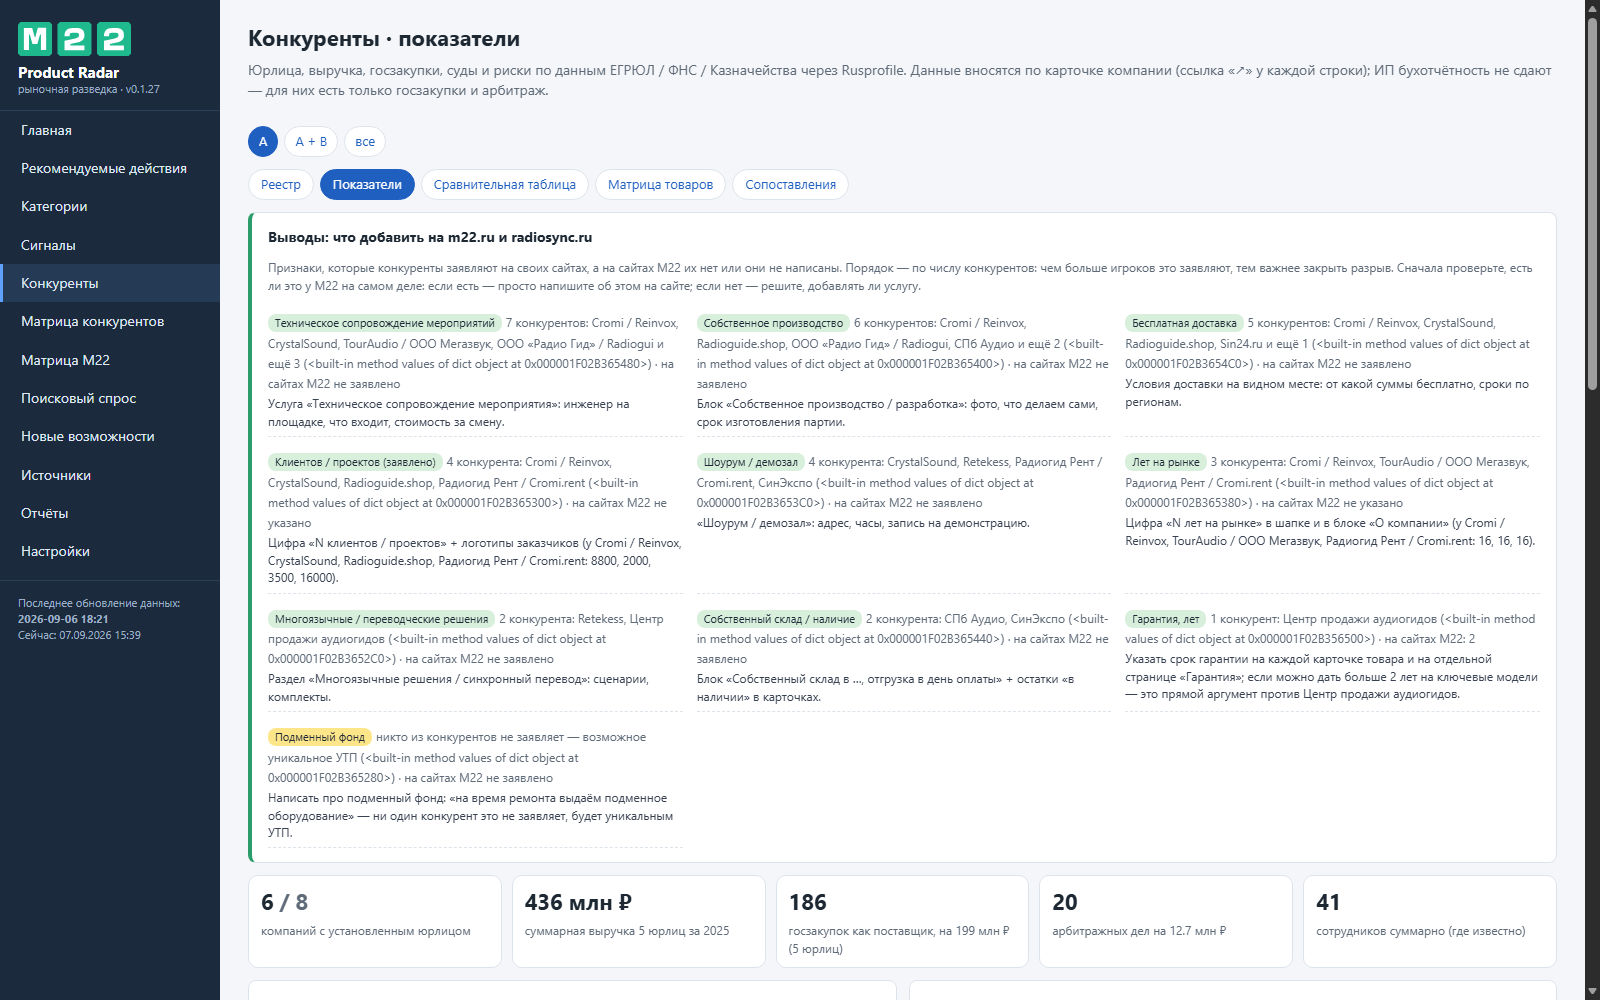
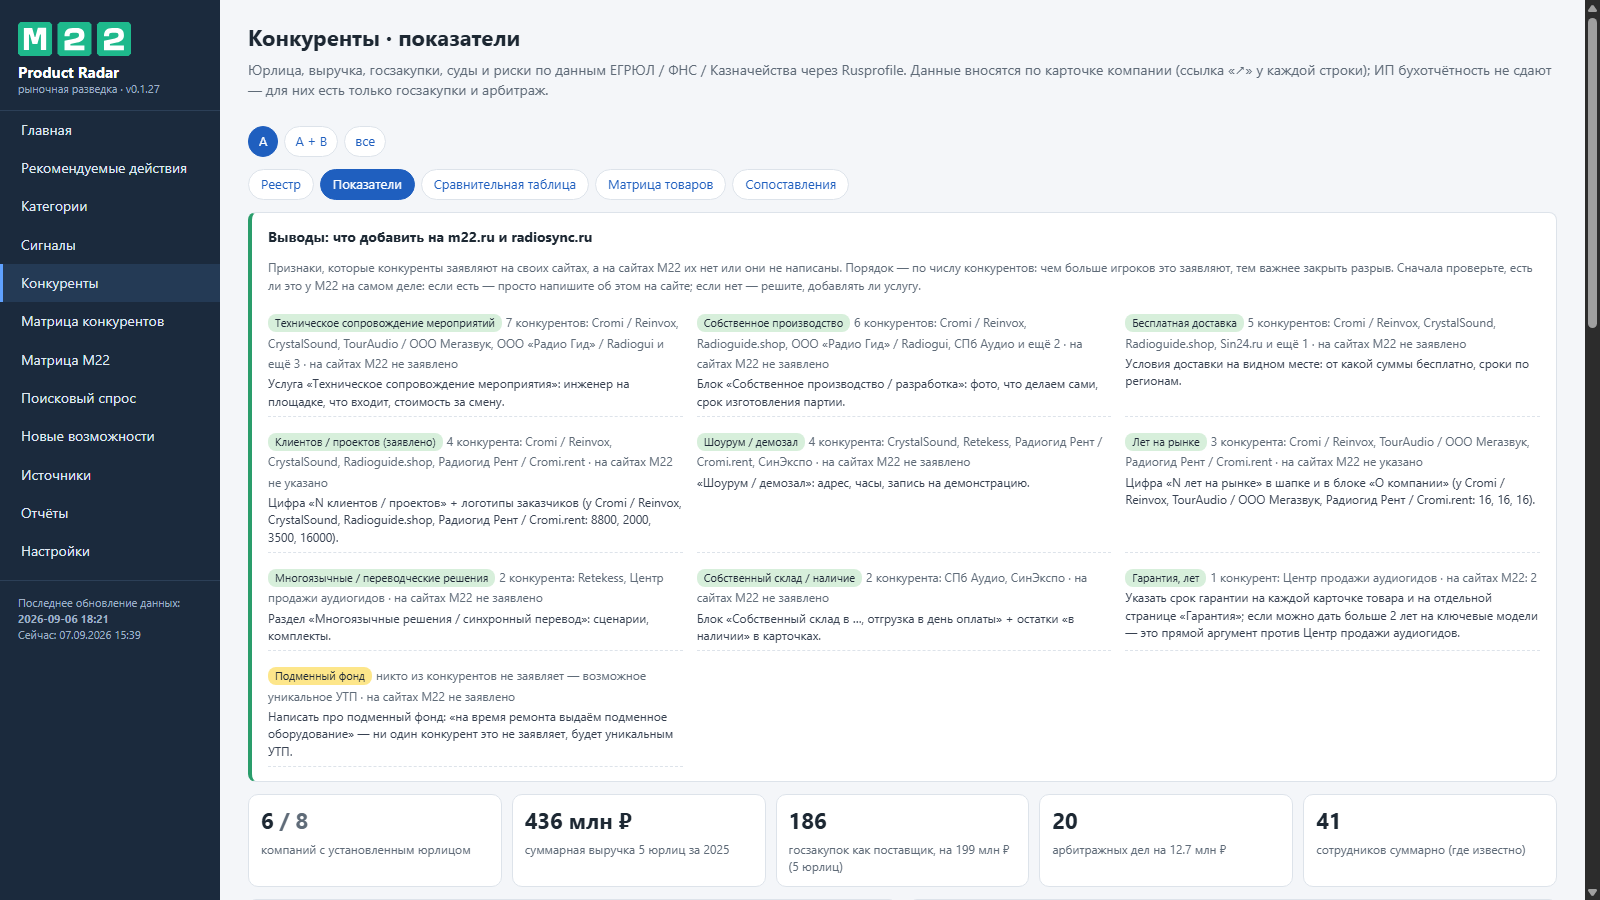
v0.1.28: вход по паролю (RADAR_PASSWORD, cookie-сессия), доступ по локальной сети, скрипт открытия порта в брандмауэре, инструкция для коллег

diff --git a/radar/web/templates/login.html b/radar/web/templates/login.html
@@ -1,0 +1,6 @@
+<!doctype html><html lang="ru"><head><meta charset="utf-8"><meta name="viewport" content="width=device-width, initial-scale=1"><title>Вход — M22 Product Radar</title>
+<link rel="icon" href="/static/m22-logo.svg"><link rel="stylesheet" href="/static/style.css?v={{ asset_version }}">
+<style>body{background:#1b2a3d;display:flex;align-items:center;justify-content:center;min-height:100vh;margin:0}.login{background:#fff;border-radius:12px;padding:28px 32px;width:340px;box-shadow:0 10px 40px rgba(0,0,0,.35)}.login img{height:40px}.login h1{font-size:18px;margin:12px 0 4px}.login input[type=password]{width:100%;font-size:16px;padding:9px 10px;border:1px solid #cbd5e1;border-radius:8px;box-sizing:border-box;margin:10px 0}.login button{width:100%;padding:10px;font-size:15px}.err{color:#b91c1c;font-size:13px}</style></head>
+<body><form class="login" method="post" action="/login"><img src="/static/m22-logo.svg" alt="M22"><h1>M22 Product Radar</h1><div class="small muted">рыночная разведка · v{{ app_version }}</div>
+<input type="hidden" name="next" value="{{ next }}"><input type="password" name="password" placeholder="Пароль" autofocus autocomplete="current-password">
+{% if error %}<div class="err">Неверный пароль</div>{% endif %}<button type="submit">Войти</button></form></body></html>

diff --git a/radar/web/templates/base.html b/radar/web/templates/base.html
@@ -21,7 +21,7 @@
     <div class="meta">
       Последнее обновление данных:<br><b>{{ last_update | dt }}</b><br>
       {% if source_errors %}<span class="warn">Источников с ошибками: {{ source_errors }}</span><br>{% endif %}
-      <span>Сейчас: {{ now }}</span>
+      <span>Сейчас: {{ now }}</span><br><a href="/logout" style="color:#9fb3c8">Выйти из радара</a>
     </div>
   </aside>
   <main>

diff --git a/radar/web/app.py b/radar/web/app.py
@@ -51,6 +51,59 @@ async def lifespan(app: FastAPI):
 
 
 app = FastAPI(title="M22 Product Radar", lifespan=lifespan)
+
+# ---------- вход по паролю (RADAR_PASSWORD в .env) ----------
+import hashlib
+import hmac
+import time as _time
+
+AUTH_COOKIE = "radar_auth"
+PUBLIC_PATHS = ("/login", "/health", "/static/")
+
+
+def _token(expires: int) -> str:
+    sig = hmac.new(config.SECRET.encode(), f"{expires}".encode(), hashlib.sha256).hexdigest()[:32]
+    return f"{expires}.{sig}"
+
+
+def _token_ok(tok: str | None) -> bool:
+    if not tok or "." not in tok:
+        return False
+    exp, sig = tok.split(".", 1)
+    if not exp.isdigit() or int(exp) < _time.time():
+        return False
+    return hmac.compare_digest(_token(int(exp)), tok)
+
+
+@app.middleware("http")
+async def require_login(request: Request, call_next):
+    if config.PASSWORD and not request.url.path.startswith(PUBLIC_PATHS) and not _token_ok(request.cookies.get(AUTH_COOKIE)):
+        nxt = request.url.path + (("?" + request.url.query) if request.url.query else "")
+        return RedirectResponse(f"/login?next={nxt}" if request.method == "GET" else "/login", status_code=303)
+    return await call_next(request)
+
+
+@app.get("/login", response_class=HTMLResponse)
+def login_page(request: Request, next: str = "/", error: str = ""):
+    return render(request, "login.html", next=next, error=error, no_nav=True)
+
+
+@app.post("/login")
+def login_submit(request: Request, password: str = Form(""), next: str = Form("/")):
+    if not config.PASSWORD or not hmac.compare_digest(password.strip(), config.PASSWORD):
+        _time.sleep(1.0)  # притормозить перебор
+        return RedirectResponse(f"/login?error=1&next={next}", status_code=303)
+    exp = int(_time.time()) + config.SESSION_DAYS * 86400
+    resp = RedirectResponse(next if next.startswith("/") and not next.startswith("//") else "/", status_code=303)
+    resp.set_cookie(AUTH_COOKIE, _token(exp), max_age=config.SESSION_DAYS * 86400, httponly=True, samesite="lax")
+    return resp
+
+
+@app.get("/logout")
+def logout():
+    resp = RedirectResponse("/login", status_code=303)
+    resp.delete_cookie(AUTH_COOKIE)
+    return resp
 app.mount("/static", StaticFiles(directory=str(HERE / "static")), name="static")
 templates = Jinja2Templates(directory=str(HERE / "templates"))
 

diff --git a/radar/config.py b/radar/config.py
@@ -30,6 +30,10 @@ IMPORT_DIR = _p(os.getenv("RADAR_IMPORT_DIR", "data/imports"))
 LOG_DIR = _p(os.getenv("RADAR_LOG_DIR", "data/logs"))
 
 HOST = os.getenv("RADAR_HOST", "127.0.0.1")
+# Вход по паролю: если RADAR_PASSWORD пустой — доступ без пароля (только для 127.0.0.1)
+PASSWORD = os.getenv("RADAR_PASSWORD", "").strip()
+SECRET = os.getenv("RADAR_SECRET", "").strip() or "dev-secret-change-me"
+SESSION_DAYS = int(os.getenv("RADAR_SESSION_DAYS", "30"))
 PORT = int(os.getenv("RADAR_PORT", "8022"))
 
 USER_AGENT = os.getenv(

diff --git a/docs/КАК_ПОЛЬЗОВАТЬСЯ.md b/docs/КАК_ПОЛЬЗОВАТЬСЯ.md
@@ -6,6 +6,13 @@
 3. Адрес радара в браузере: `127.0.0.1:8022` (можно добавить в закладки).
 4. Выключить радар: **«Остановить радар»** на рабочем столе. Обычно это не нужно.
 
+## Доступ для коллег (ваш компьютер как сервер)
+
+1. Один раз запустите на рабочем столе «Открыть доступ к радару для коллег.bat» и подтвердите запрос администратора — это открывает порт 8022 в брандмауэре Windows.
+2. Ссылка для коллег в офисной сети: **http://SALES5:8022** (или по адресу компьютера, например http://192.168.150.221:8022 — адрес может меняться, имя компьютера надёжнее).
+3. Пароль общий для всех, задаётся в файле `.env` (строка `RADAR_PASSWORD=`). Сессия живёт 30 дней, выйти — ссылка «Выйти из радара» внизу меню.
+4. Радар доступен, пока ваш компьютер включён и радар запущен (он стартует сам при входе в Windows). Из дома — только через корпоративный VPN.
+
 ## Обновление данных
 - Пока компьютер включён, радар сам собирает данные каждую ночь (сайты M22 в 05:00, конкуренты в 06:00, отчёт по понедельникам в 08:30).
 - Если компьютер ночью выключен, раз в неделю запускайте файл **«Обновить данные радара»** на рабочем столе. Он работает 15–25 минут, потом пишет «Готово».

diff --git a/README.md b/README.md
@@ -92,7 +92,7 @@ python -m radar serve           # веб-интерфейс: http://127.0.0.1:80
 ## Развёртывание
 
 1. Скопируйте папку проекта на сервер, установите Python 3.11+, выполните `pip install -r requirements.txt`.
-2. Создайте `.env` (см. `.env.example`); при доступе извне поставьте `RADAR_HOST=0.0.0.0` и закройте порт обратным прокси с авторизацией (nginx basic auth) — в приложении нет встроенной аутентификации.
+2. Создайте `.env` (см. `.env.example`); при доступе извне поставьте `RADAR_HOST=0.0.0.0` и задайте `RADAR_PASSWORD` (вход по общему паролю, cookie-сессия на `RADAR_SESSION_DAYS` дней, подпись `RADAR_SECRET`); для интернета дополнительно HTTPS через nginx (см. docs/DEPLOY.md). Порт в брандмауэре Windows открывает `scripts/open_firewall.bat`.
 3. `python -m radar init && python -m radar collect all && python -m radar analyze`.
 4. `python -m radar serve` под supervisor/systemd. Резервные копии: `python -m radar backup` (папка `data/backups`) — также создаются автоматически при еженедельном отчёте.
 
